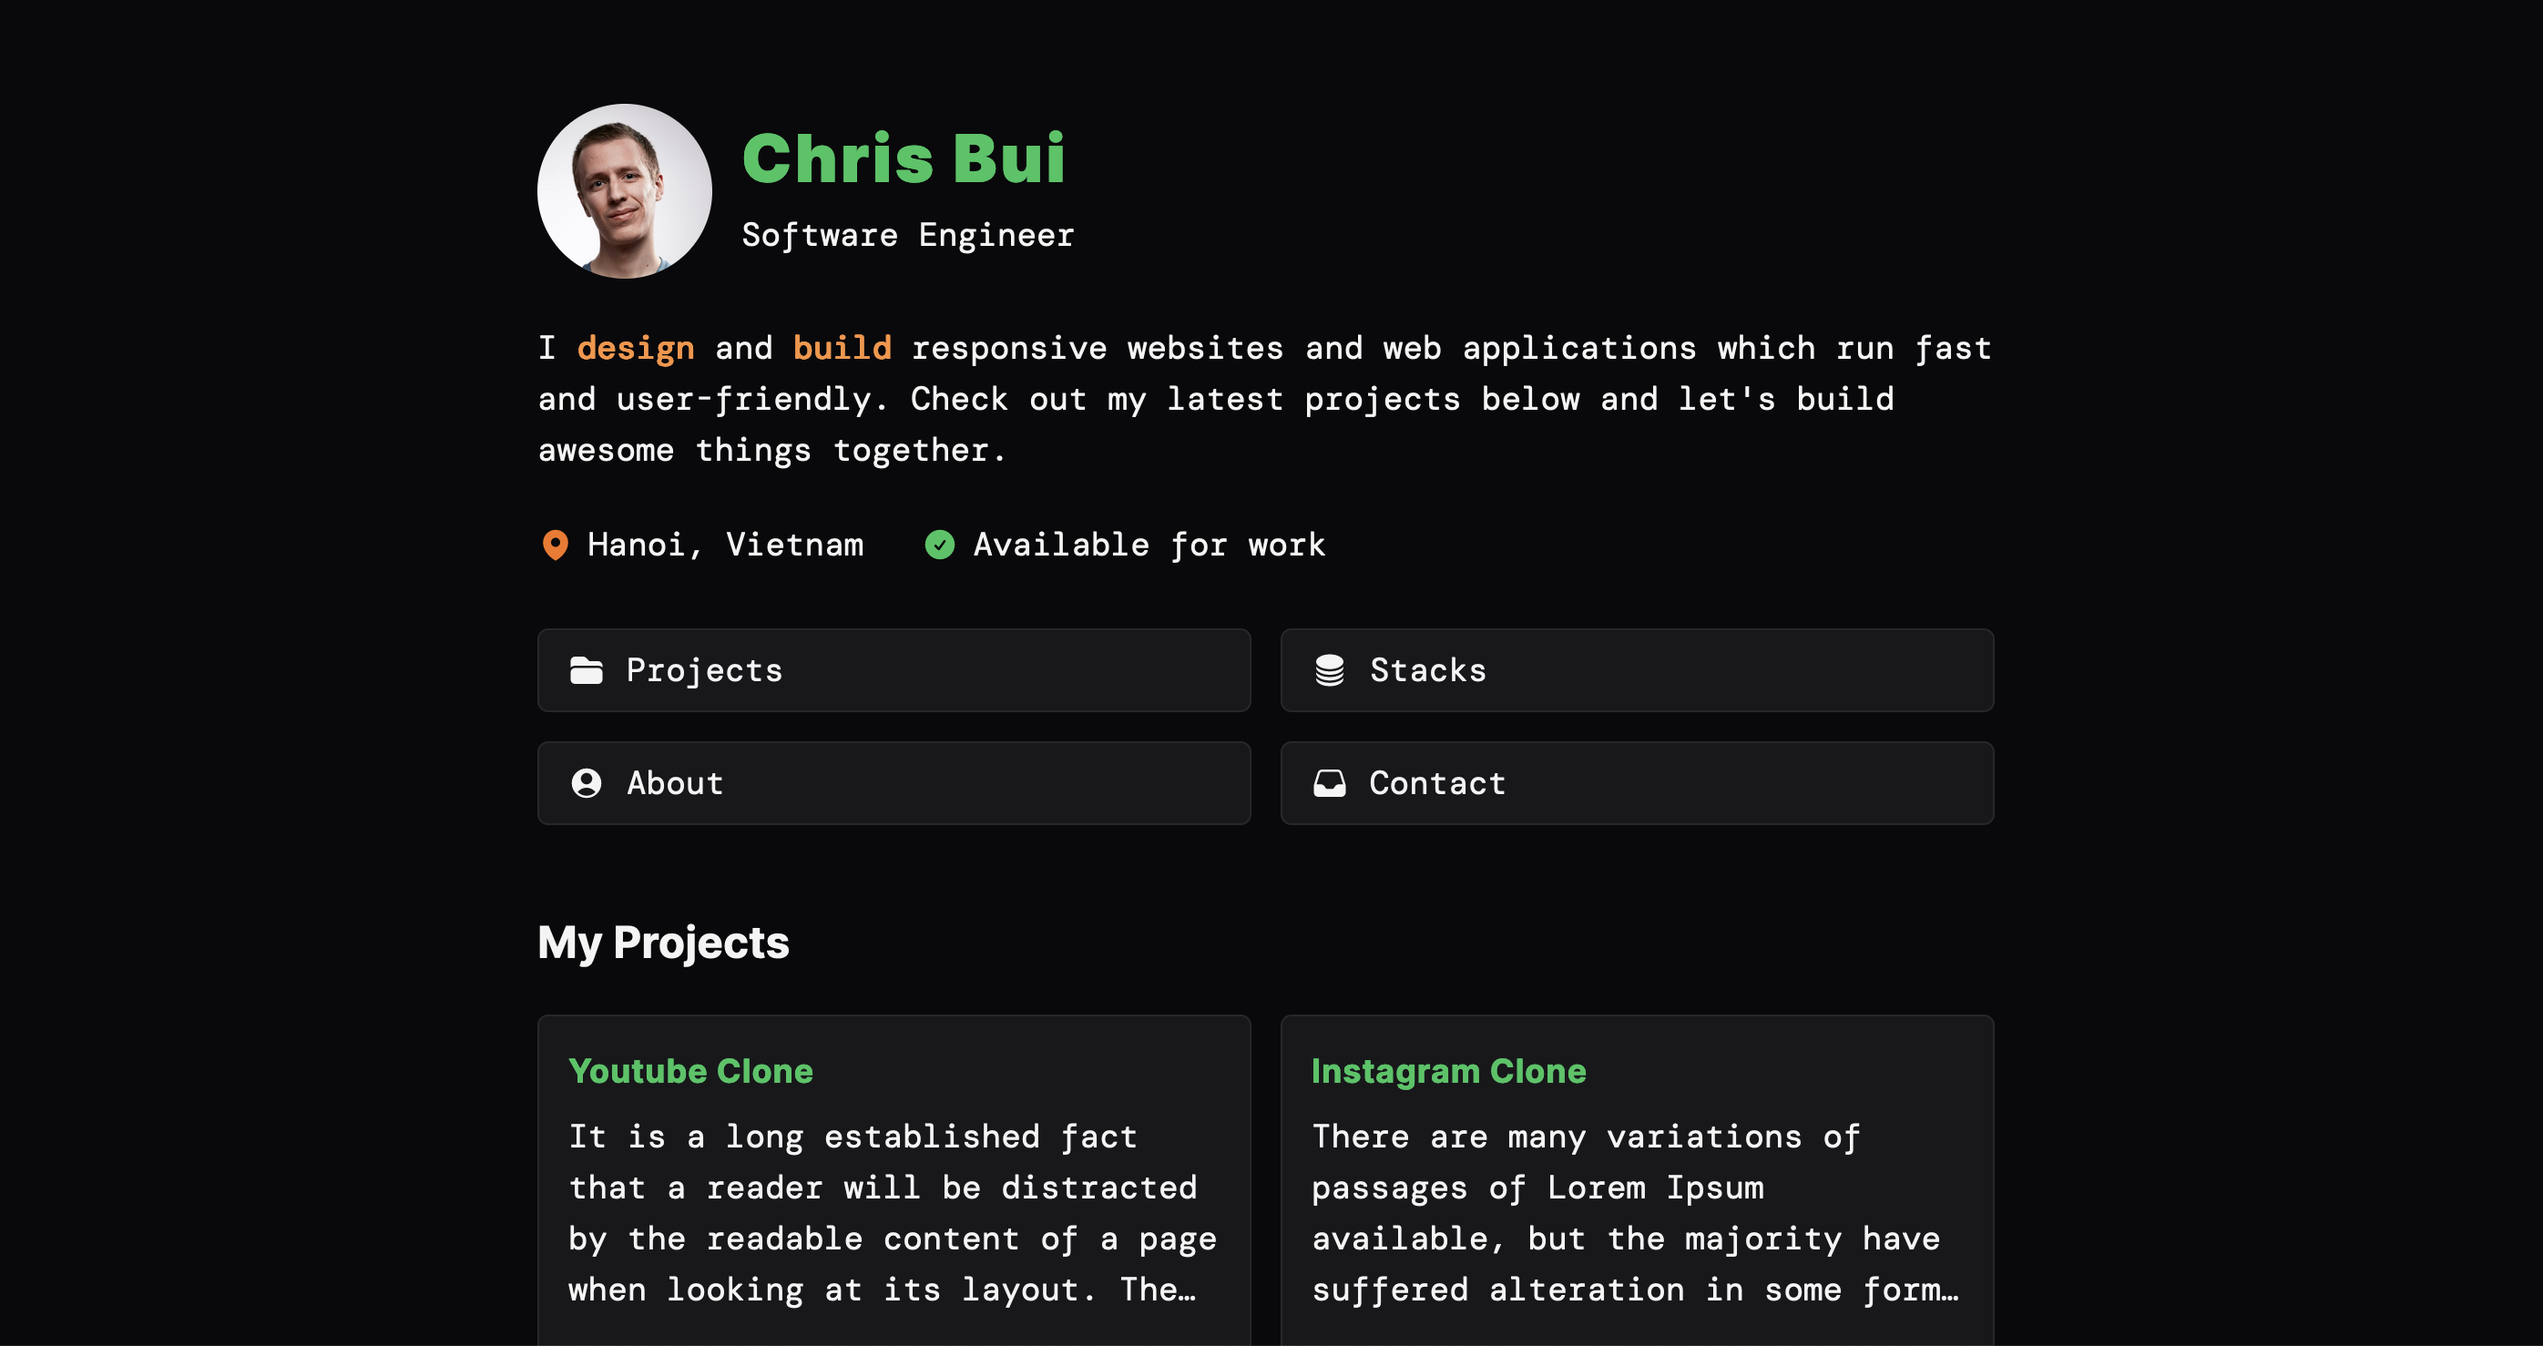
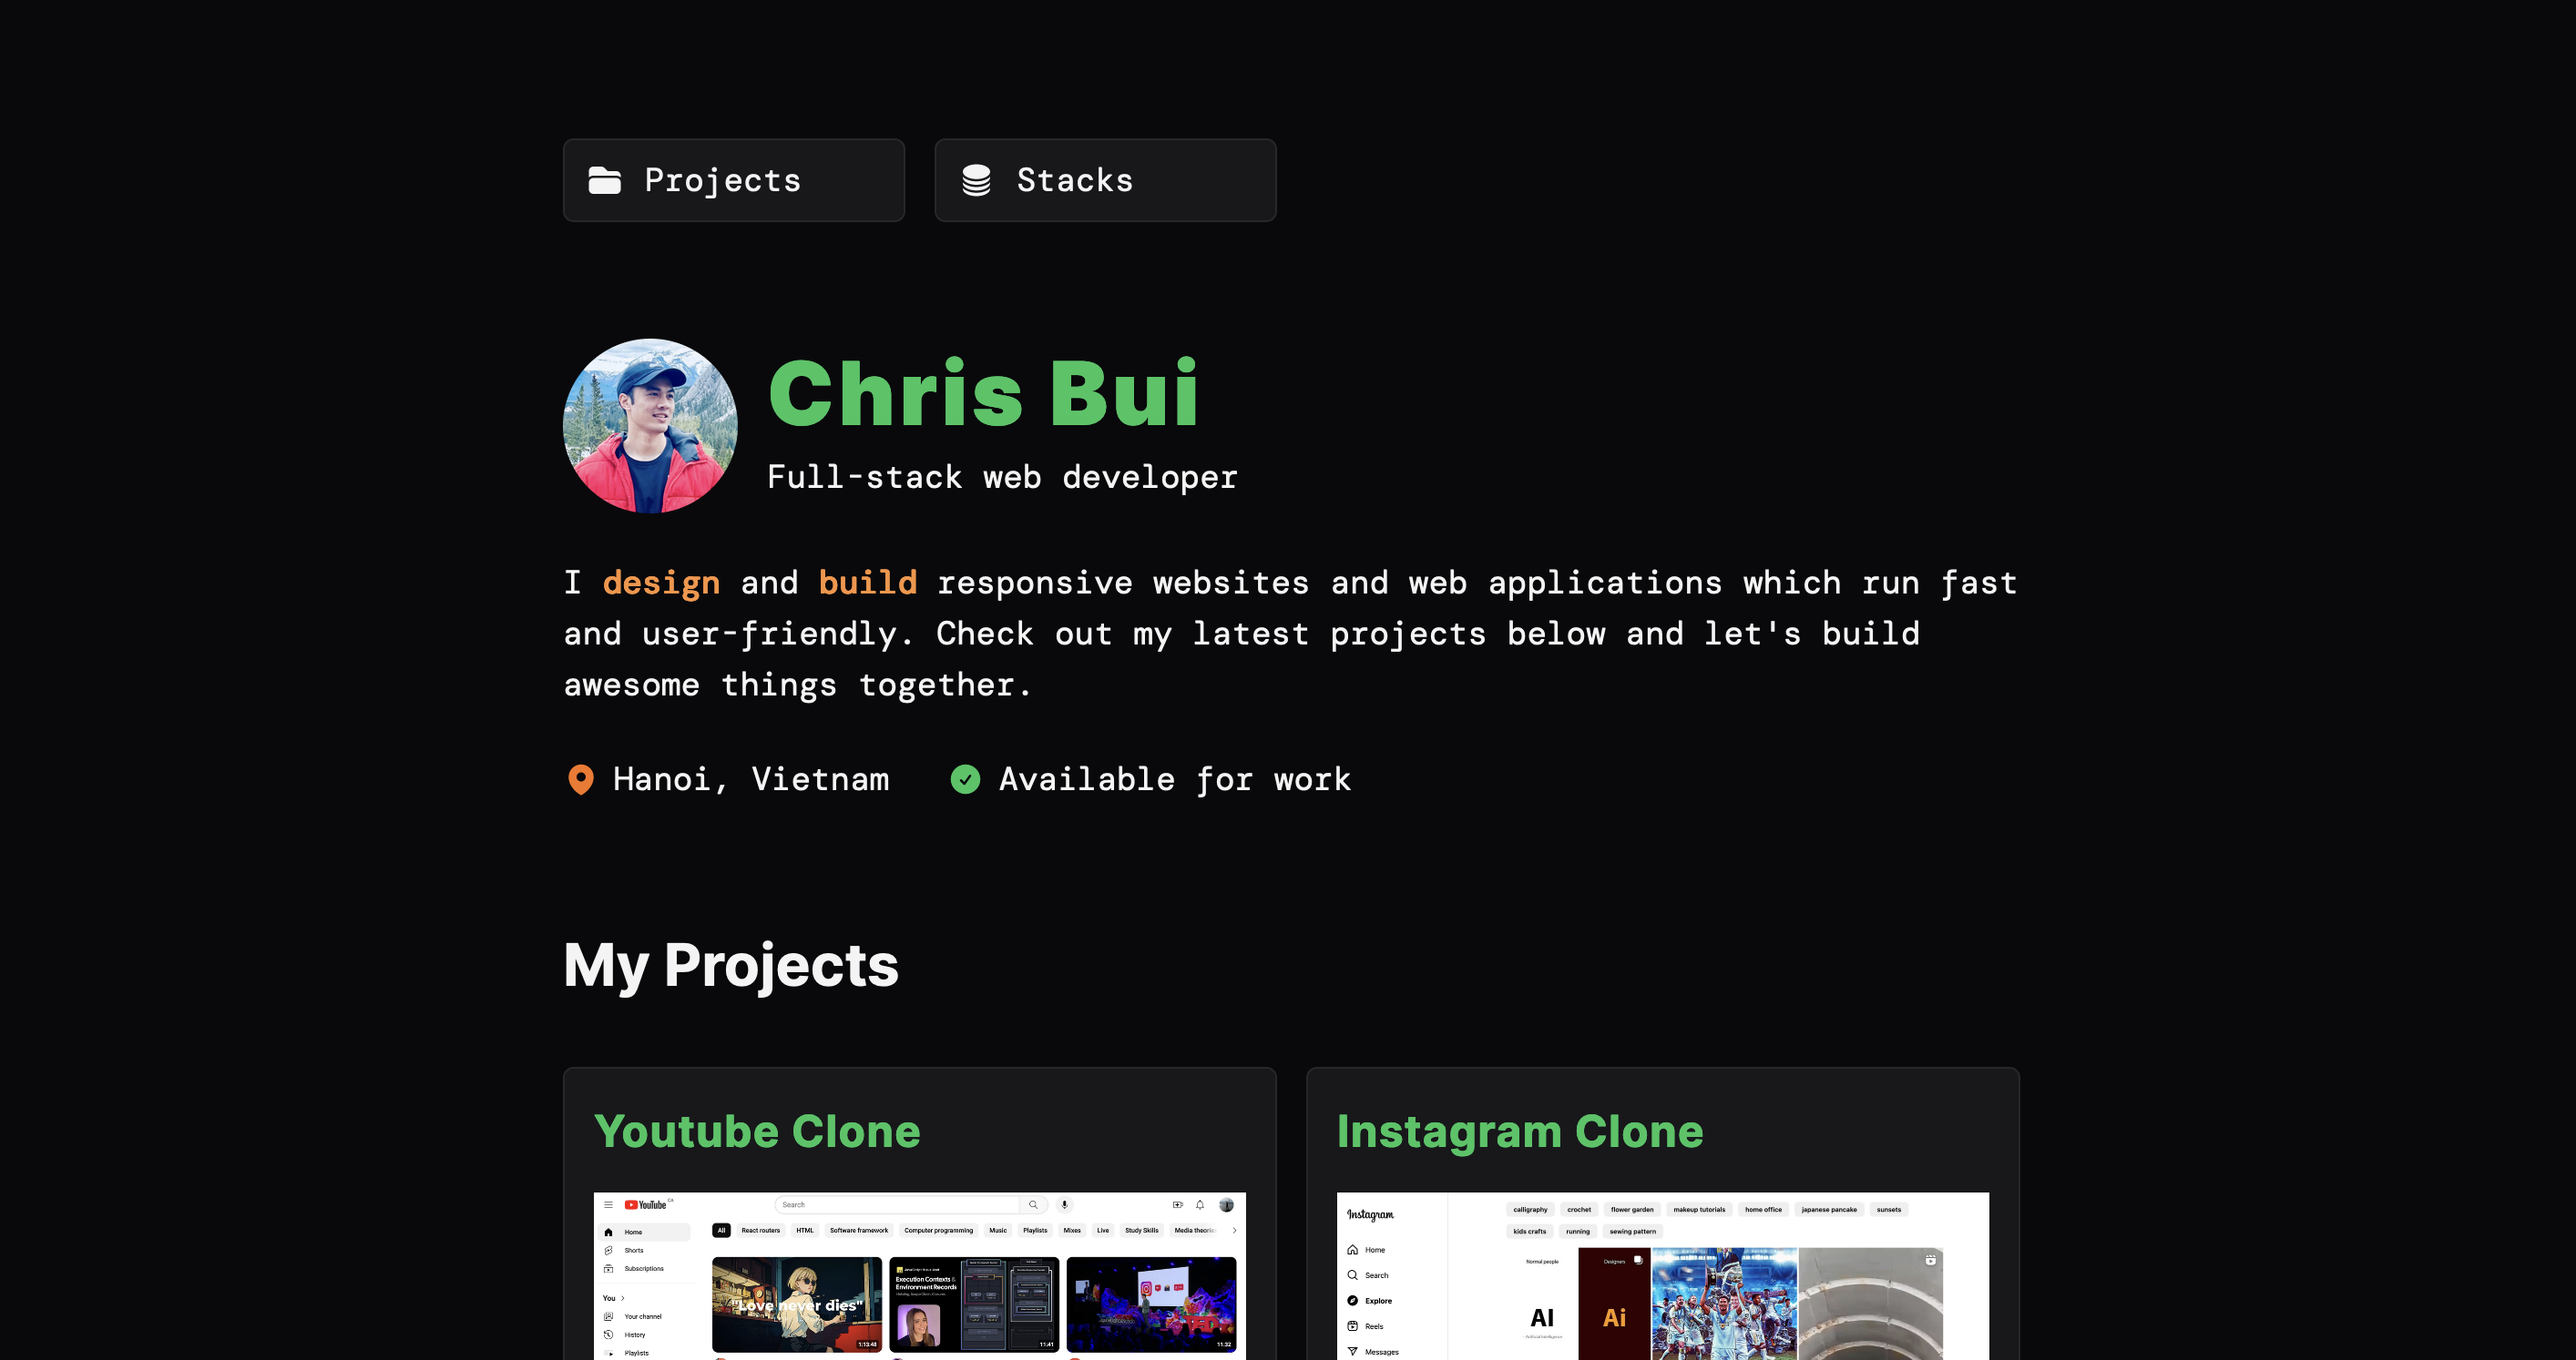
Update personal-website cover in projects

diff --git a/src/components/Stacks.jsx b/src/components/Stacks.jsx
@@ -22,31 +22,34 @@ export default function Stacks() {
     <section className="pt-4 flex flex-col gap-8" id="stacks">
       <h2>Technology Stacks</h2>
 
-      <div className="flex rounded-md overflow-clip self-start border-[1px] border-solid border-zinc-800">
-        {stackCategories.map((category, index) => (
-          <button
-            key={category}
-            className={`capitalize px-3 py-2 hover:bg-orange-500 hover:text-orange-950 ${
-              activeIndex === index ? activeStyles : 'bg-zinc-900 text-zinc-50'
-            }`}
-            onClick={() => handleClickTab(index)}>
-            <NormalText>{category}</NormalText>
-          </button>
-        ))}
-      </div>
-
-      <ul className="grid grid-cols-auto-fill-12 gap-4">
-        {stacks
-          .filter((stack) => stack.category === currentActiveCategory)
-          .map((stack) => (
-            <li key={stack.id}>
-              <div className="text-center p-4 border-[1px] bg-zinc-900 border-zinc-800 rounded-md flex flex-col items-center gap-4">
-                <NormalText>{stack.name}</NormalText>
-                <img src={stack.logoSrc} alt="" width={44} />
-              </div>
-            </li>
+      <div className="flex flex-col gap-4">
+        <div className="flex rounded-md overflow-clip self-start border-[1px] border-solid border-zinc-800">
+          {stackCategories.map((category, index) => (
+            <button
+              key={category}
+              className={`capitalize px-3 py-2 hover:bg-orange-500 hover:text-orange-950 ${
+                activeIndex === index
+                  ? activeStyles
+                  : 'bg-zinc-900 text-zinc-50'
+              }`}
+              onClick={() => handleClickTab(index)}>
+              <NormalText>{category}</NormalText>
+            </button>
           ))}
-      </ul>
+        </div>
+        <ul className="grid grid-cols-auto-fill-12 gap-4">
+          {stacks
+            .filter((stack) => stack.category === currentActiveCategory)
+            .map((stack) => (
+              <li key={stack.id}>
+                <div className="text-center p-4 border-[1px] bg-zinc-900 border-zinc-800 rounded-md flex flex-col items-center gap-4">
+                  <NormalText>{stack.name}</NormalText>
+                  <img src={stack.logoSrc} alt="" width={44} />
+                </div>
+              </li>
+            ))}
+        </ul>
+      </div>
     </section>
   )
 }

diff --git a/src/App.jsx b/src/App.jsx
@@ -2,18 +2,11 @@ import Bio from './components/Bio'
 import NavigationMenu from './components/NavigationMenu'
 import Projects from './components/Projects'
 import Stacks from './components/Stacks'
-import {
-  CircleStackIcon,
-  FolderIcon,
-  InboxIcon,
-  UserCircleIcon,
-} from '@heroicons/react/24/solid'
+import { CircleStackIcon, FolderIcon } from '@heroicons/react/24/solid'
 
 const tabs = [
   { name: 'projects', icon: <FolderIcon width={20} /> },
   { name: 'stacks', icon: <CircleStackIcon width={20} /> },
-  { name: 'about', icon: <UserCircleIcon width={20} /> },
-  { name: 'contact', icon: <InboxIcon width={20} /> },
 ]
 
 /* eslint-disable react/prop-types */
@@ -45,7 +38,7 @@ function App() {
 
 function PageWrapper({ children }) {
   return (
-    <main className="min-h-dvh px-6 py-10 md:py-20 bg-zinc-950 text-zinc-100 font-[DMMono]">
+    <main className="min-h-dvh px-4 py-10 md:py-20 bg-zinc-950 text-zinc-100 font-[DMMono]">
       {children}
     </main>
   )
